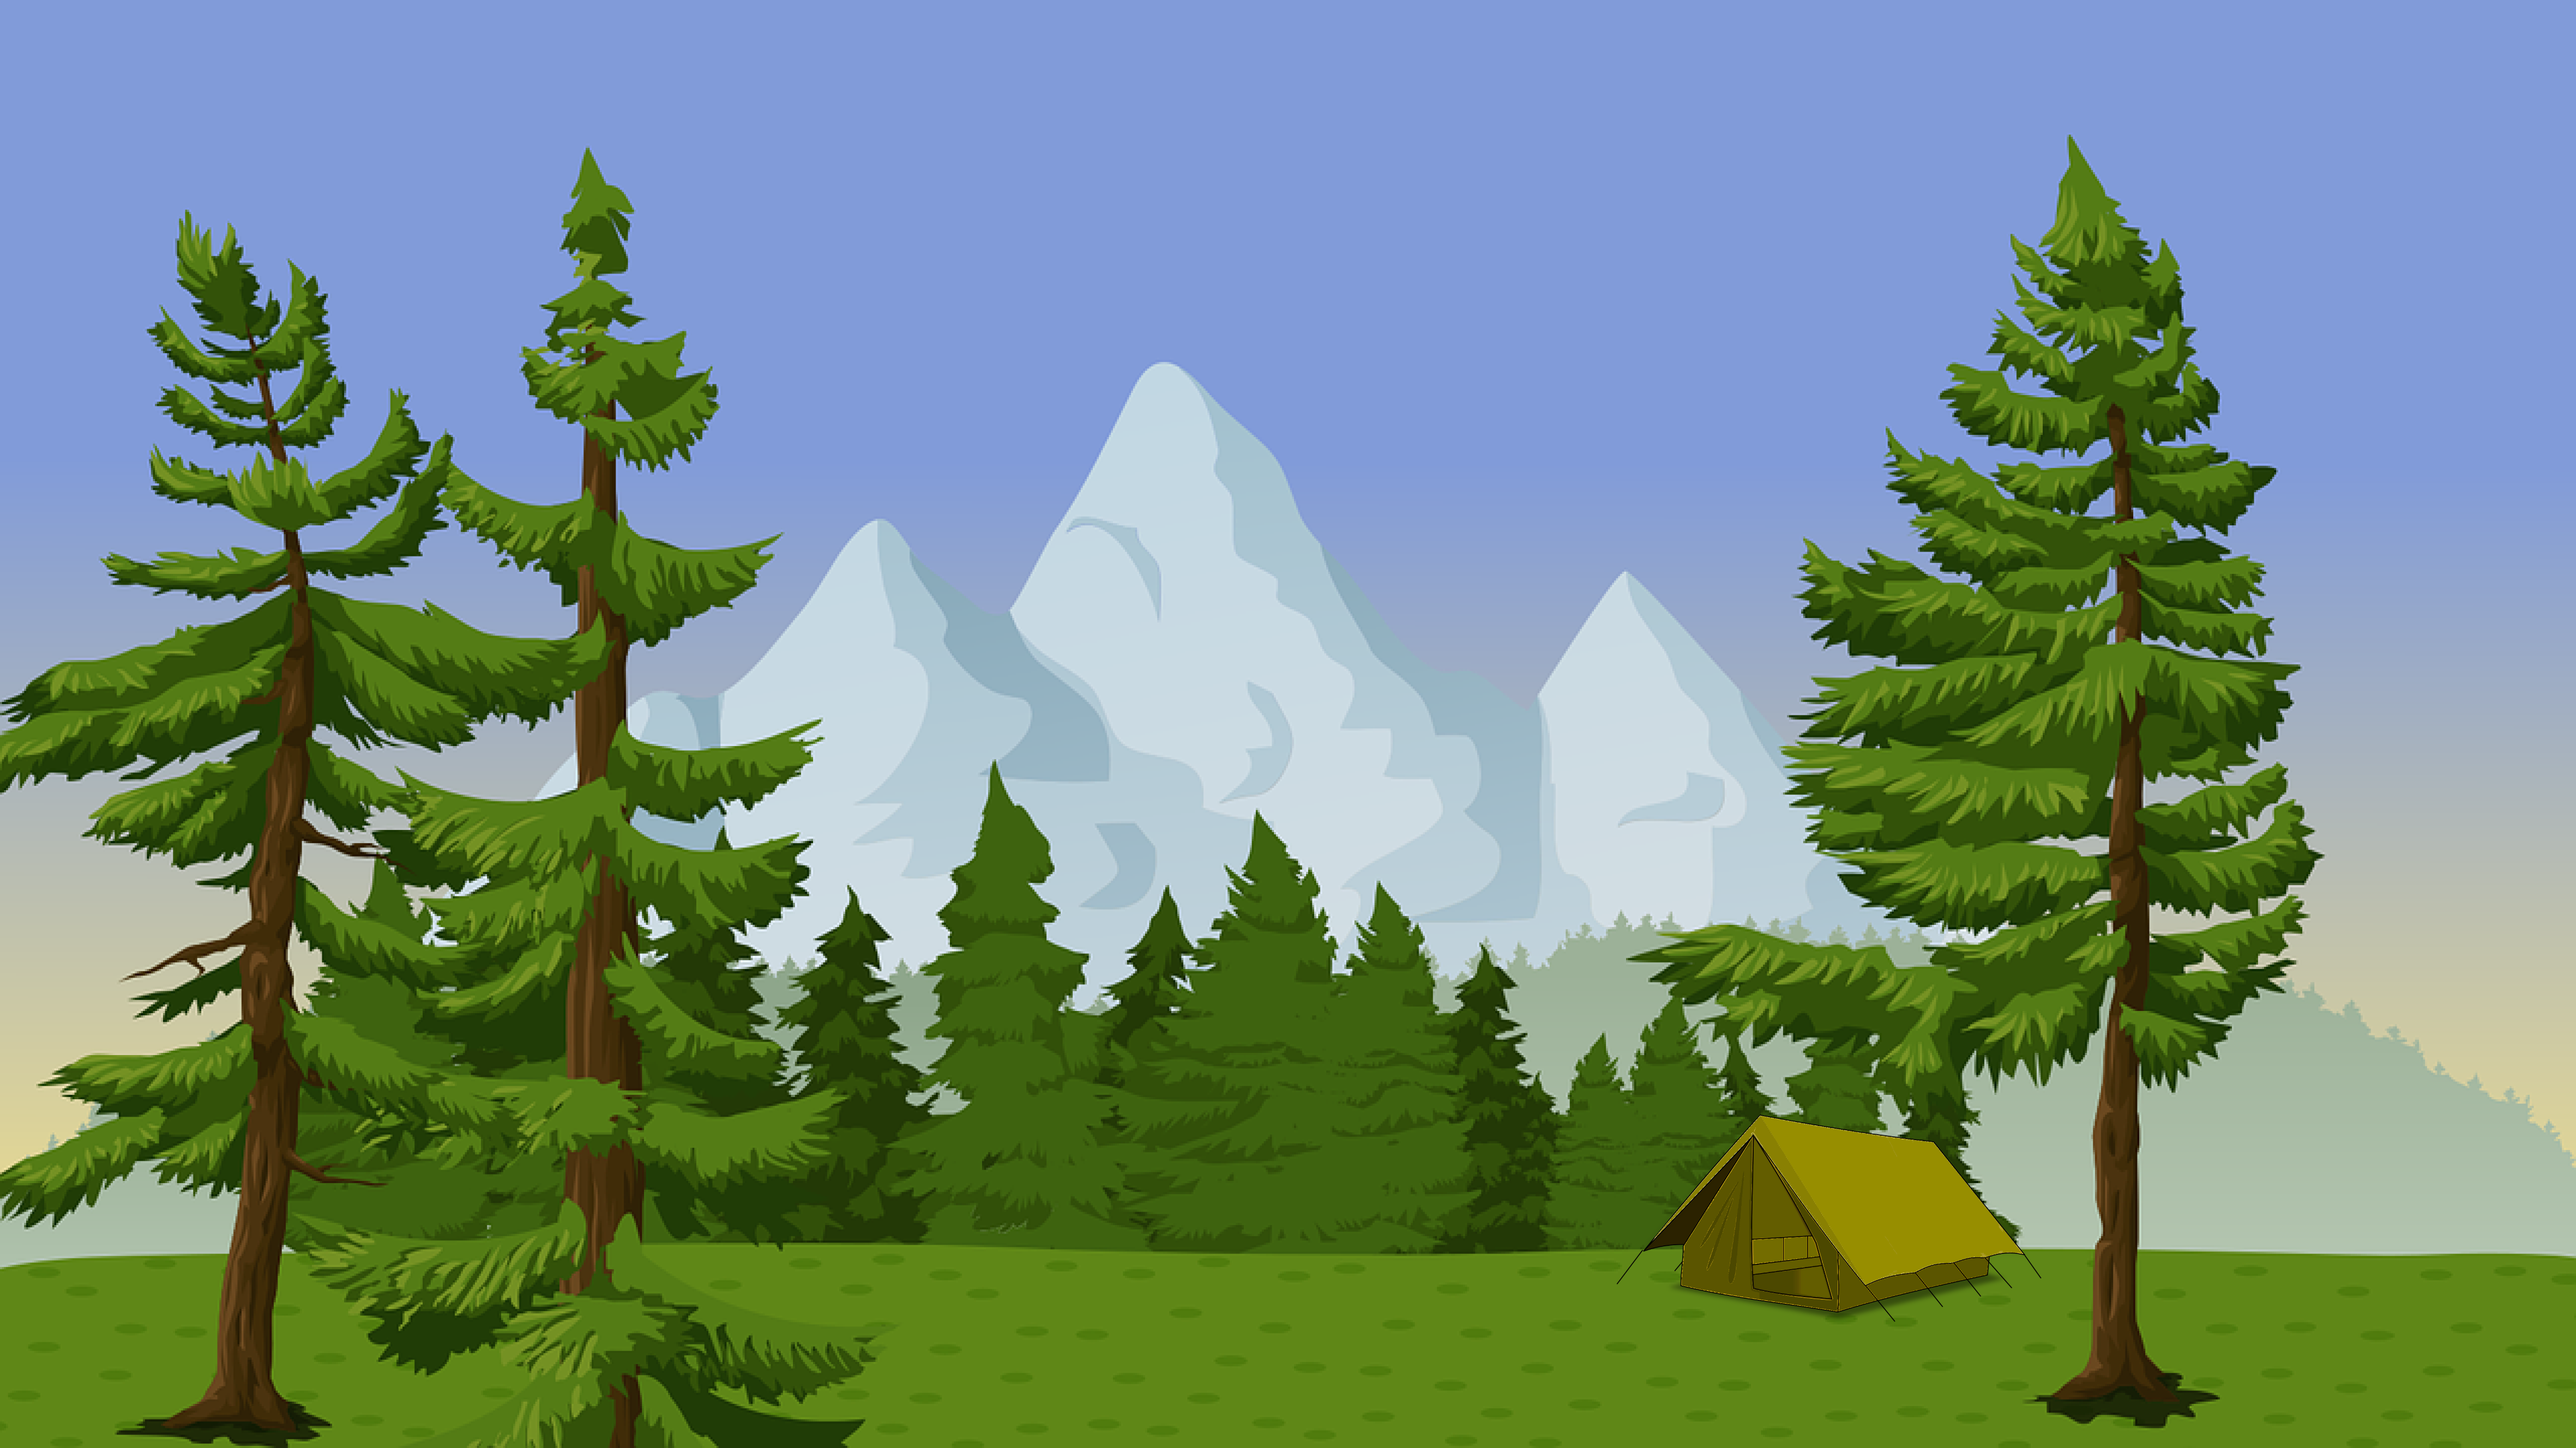
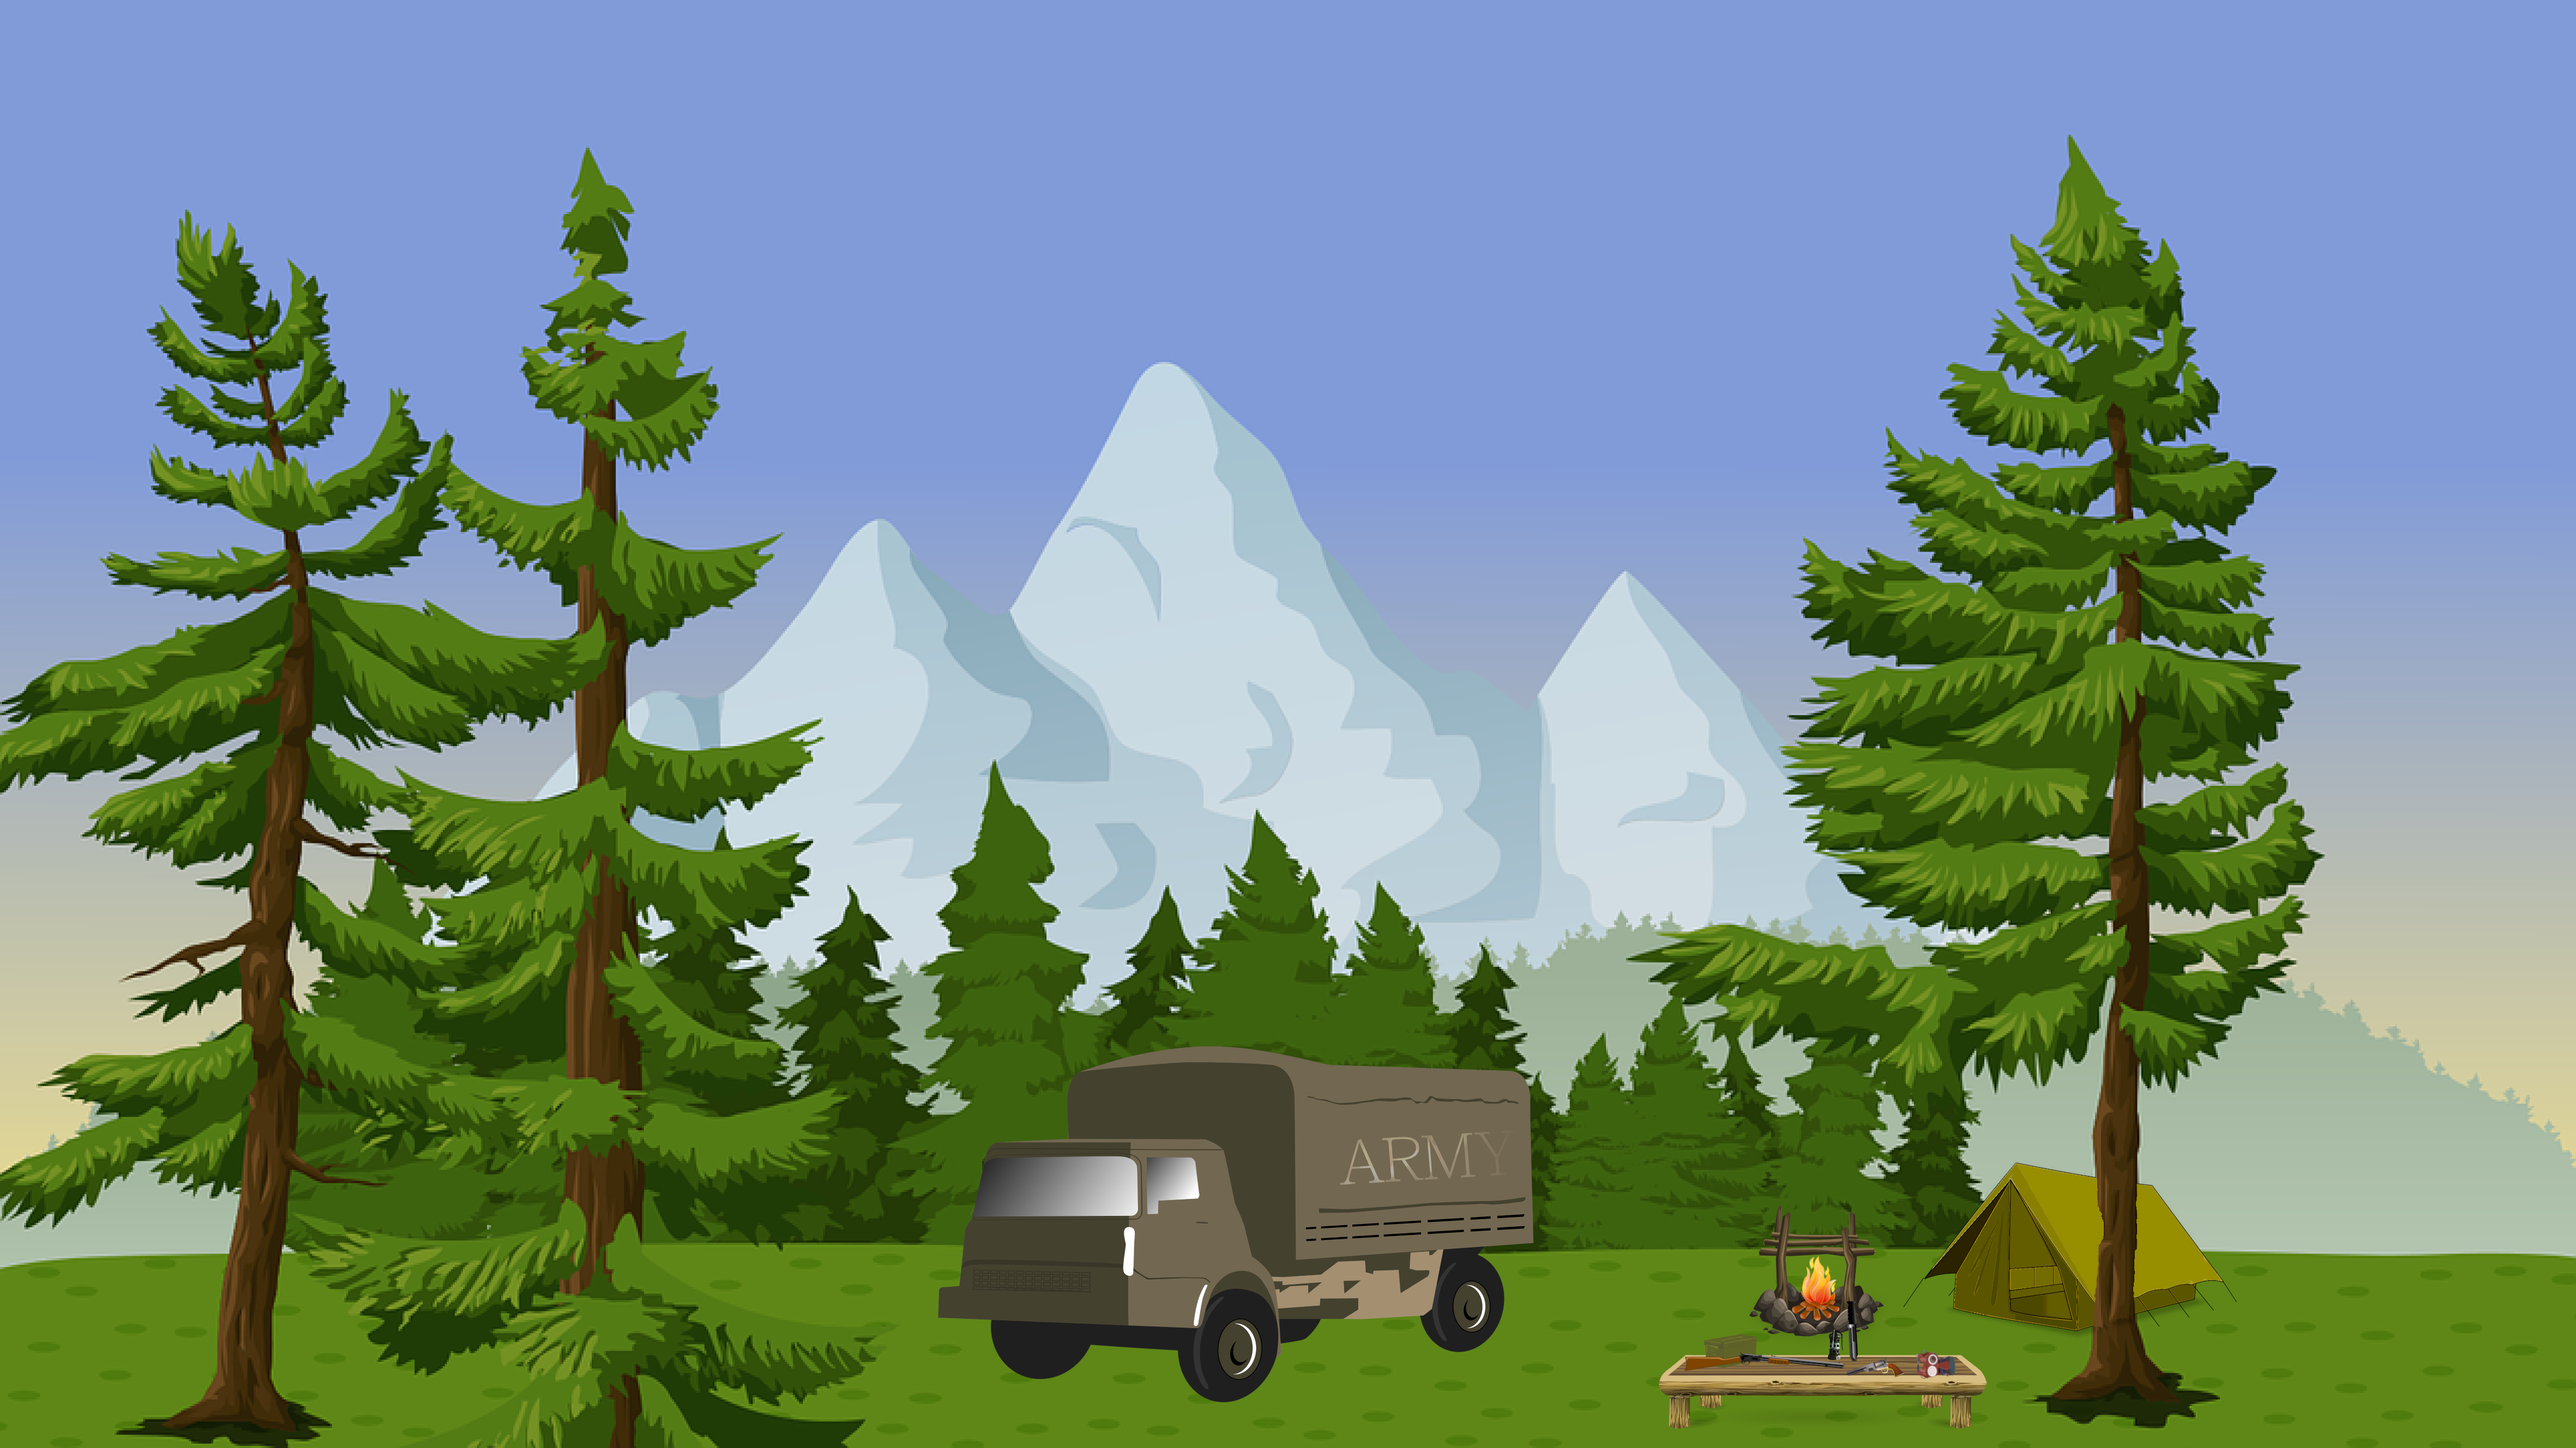
changed backgrounds to make them more interesting

Changed region(s): [[0.3423, 0.7185, 0.6224, 0.9684], [0.6224, 0.7497, 0.8713, 0.9996]]

diff --git a/javascript/game.js b/javascript/game.js
@@ -116,10 +116,11 @@ function death() {
 }
 
 function checklvl() {
+    //there are 12 level-sections
     if (player.level >= 25 && player.level < 50) {
         document.getElementById("rifle").innerHTML = "Rifle: Type-88";
         document.getElementById("rank").innerHTML = "Rank: Marksman";
-        background.src = "img/background2.png";
+        background.src = "img/background.png";
     }
     if (player.level >= 50 && player.level < 75) {
         document.getElementById("rifle").innerHTML = "Rifle: Fall";
@@ -144,7 +145,7 @@ function checklvl() {
     if (player.level >= 200 && player.level < 250) {
         document.getElementById("rifle").innerHTML = "Rifle: RSASS";
         document.getElementById("rank").innerHTML = "Rank: Sniper Sergeant";
-        background.src = "img/background3.png";
+        background.src = "img/background4.png";
     }
     if (player.level >= 250 && player.level < 300) {
         document.getElementById("rifle").innerHTML = "Rifle: SVD";
@@ -154,27 +155,27 @@ function checklvl() {
     if (player.level >= 300 && player.level < 350) {
         document.getElementById("rifle").innerHTML = "Rifle: M110";
         document.getElementById("rank").innerHTML = "Rank: Sharpshooter Elite";
-        background.src = "img/background4.png";
+        background.src = "img/background5.png";
     }
     if (player.level >= 350 && player.level < 400) {
         document.getElementById("rifle").innerHTML = "Rifle: M2010";
         document.getElementById("rank").innerHTML = "Rank: Sharpshooter Sergeant";
-        background.src = "img/background4.png";
+        background.src = "img/background5.png";
     }
     if (player.level >= 400 && player.level < 450) {
         document.getElementById("rifle").innerHTML = "Rifle: Gol";
         document.getElementById("rank").innerHTML = "Rank: Spec-Ops Sniper";
-        background.src = "img/background5.png";
+        background.src = "img/background6.png";
     }
     if (player.level >= 450 && player.level < 500) {
         document.getElementById("rifle").innerHTML = "Rifle: AWM";
         document.getElementById("rank").innerHTML = "Rank: Spec-Ops Sharpshooter";
-        background.src = "img/background5.png";
+        background.src = "img/background6.png";
     }
     if (player.level >= 500) {
         document.getElementById("rifle").innerHTML = "Rifle: M98B";
         document.getElementById("rank").innerHTML = "Rank: Deadshot";
-        background.src = "img/background6.png";
+        background.src = "img/background7.png";
     }
 }
 
